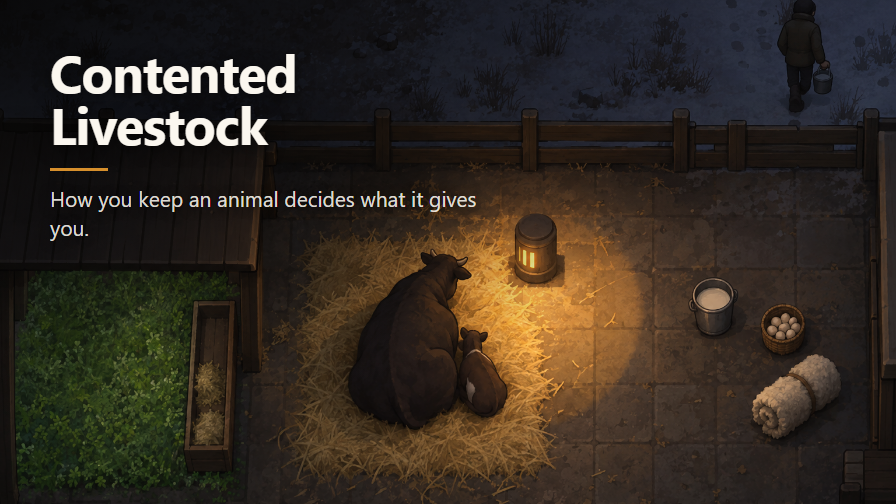
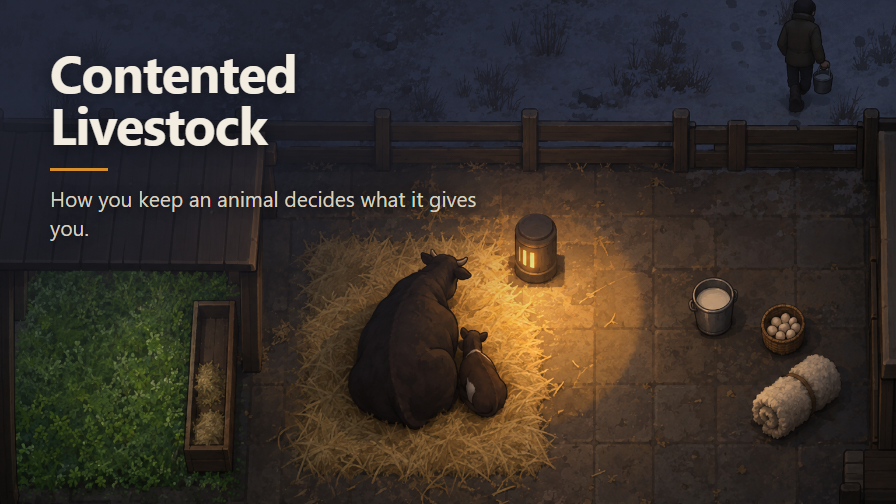
The veil takes the cold from the picture, and the card speaks English
Re-engraved to the 2026-09-12 rule: the veil is no longer the same black on every showcase in the
repository, it is a colour taken from this one. #242838, sampled off the frozen ground beyond the
fence and averaged over two patches. The guide asks for a notch of desaturation after sampling and
it is a no-op here - the sample is already the least saturated thing in the frame - but it is the
right one to take: the veil colour becomes the colour of that third of the picture, and what
belongs over the text is the cold the shelter keeps out, not the warmth of the heater pool, which
is one of the two things allowed to be vivid and would have spent that budget on a flat.

Relative luminance 0.022, under the 0.18 threshold, so the ink is the light one and the drop
shadows stay. The rule keeps its amber, which the guide only gives up on an amber or orange veil.
The ellipse footprint stays as well, for the reason it was adopted: the guide's circle also
swallows the green pasture.

Measured on the rendered PNG rather than on the stylesheet, as the guide requires - the veil is
translucent, so the colour under a glyph is never the one in the CSS. The page is rendered a
second time with the text hidden and the four corners of the text block are sampled: 12.6, 13.4,
11.0 and 7.8 to one. The worst sits behind the end of the summary, where the lean-to roof lifts
the ground out from under it, and it still clears the 4.5:1 floor by a wide margin.
[…]

Changed region(s): [[0.0, 0.0, 0.4688, 0.4167]]

diff --git a/_tools/preview.html b/_tools/preview.html
@@ -37,17 +37,34 @@
   /*
     Darkens the upper-left third so the text reads, and leaves the lit cow alone.
 
-    STYLE_RIMWORLD.md specifies a circle falling to nothing at 74%, which on this
-    picture also swallows the green pasture in the lower left - one of the two
-    things allowed to be vivid here, and the one that says what the animal is
-    being fed. The veil is flattened into an ellipse instead, wide enough to
-    cover the whole text block and short enough to release the pasture. Same
-    colour, same intent, different footprint.
+    The colour is #242838, sampled off the frozen ground beyond the fence in
+    Art/Preview-source.png - averaged over two patches that came back #212532 and
+    #272a38. The style guide asks for one notch of desaturation after sampling,
+    which is a no-op here: at S 0.22 the sample is already the least saturated
+    thing in the picture. It is also the right one to take. The veil colour
+    becomes the colour of this third of the showcase, and what belongs there is
+    the cold the shelter is keeping out, not the warmth of the heater pool -
+    which is one of the two things allowed to be vivid and would have spent that
+    budget on a flat.
+
+    Its relative luminance is 0.022, well under the 0.18 the guide sets, so the
+    ink is the light one and the drop shadows stay: they lift the glyphs off the
+    ground that shows through. The rule keeps its amber, which the guide only
+    gives up when the veil is itself amber or orange.
+
+    Footprint: the guide's dark form is a circle falling to nothing at 74%, which
+    on this picture also swallows the green pasture in the lower left - the other
+    of the two vivid things, and the one that says what the animal is being fed.
+    Flattened into an ellipse instead, wide enough to cover the whole text block
+    and short enough to release the pasture. The acceptance test is the same
+    either way, and it is measured on the rendered PNG: 4.5:1 at the worst of the
+    four corners of the text block. The worst of the four here is 7.8:1, behind the end of the summary
+    where the lean-to roof lifts the ground out from under it.
   */
   .veil {
     position: absolute; inset: 0;
     background: radial-gradient(ellipse 900px 430px at top left,
-                rgba(6, 5, 4, .88) 0%, rgba(6, 5, 4, 0) 100%);
+                rgba(36, 40, 56, .88) 0%, rgba(36, 40, 56, 0) 100%);
   }
 
   .plate {
@@ -57,7 +74,7 @@
 
   .name {
     margin: 0; font-size: 52px; font-weight: 700; line-height: 1;
-    color: #FBF7EF; letter-spacing: -1px;
+    color: #F2ECE1; letter-spacing: -1px;
     text-shadow: 0 2px 18px rgba(0, 0, 0, .55);
   }
 
@@ -68,7 +85,7 @@
   .line {
     margin: 13px 0 0; width: 430px;
     font-size: 21px; line-height: 29px; font-weight: 400;
-    color: rgba(251, 247, 239, .88);
+    color: #D8CFC0;
     text-shadow: 0 1px 12px rgba(0, 0, 0, .6);
   }
 </style>

diff --git a/STATUS.md b/STATUS.md
@@ -1,58 +1,67 @@
 ---
 mod:        Contented Livestock
 packageId:  nelim.contentedlivestock
-depot:      Rimworld-Contented-Livestock
-visibilite: public
-detache:    oui
-etape:      done
+repo:       Rimworld-Contented-Livestock
+visibility: public
+detached:   yes
+stage:      done
 licence:    original
-licence_ou: création originale, MIT sans réserve. Rien n'est repris d'un autre mod, ni code, ni def, ni texture, ni son ; le `LICENSE` est un MIT nu, sans section de périmètre, donc les images de la vitrine y entrent aussi. La mécanique est celle de Stardew Valley, créditée dans l'ATTRIBUTION et reprise d'aucune de ses lignes.
-vitrine:    complete
-teste_le:
-workshop:   
-reste:
-  - non_verifie: jamais vu tourner en jeu. Beaucoup réduit le 2026-09-11 par
-    `_tools/Run-Functional-Tests.ps1`, 16 tests hors jeu, qui ont trouvé et fait corriger un
-    `FieldAccessException` levé au premier tick de chaque animal — toute la moitié production
-    était inerte derrière un démarrage propre. Restent les 15 scénarios de
-    `_tools/FUNCTIONAL-SCENARIOS.md`, aucun joué, à commencer par le zéro : tant qu'il ne passe
-    pas, les quatorze autres ne prouvent rien.
-  - non_verifie: 5 des 16 tests portent sur `Assembly-CSharp` lui-même et n'ont pas pu être vus
-    rouges ; les 11 autres l'ont été, une mutation à la fois. Le fichier dit lesquels.
-  - feature: la vitrine est gravée en noir, d'avant la consigne du 2026-09-12 sur le voile en
-    couleur. Source pleine résolution sous `Art/`, page de gravure dans `_tools/preview.html` :
-    la reprise est une couleur à prélever et une encre à recalculer.
+licence_at: an original creation, MIT with no reservation. Nothing is reused from another mod - no code, no def, no texture, no sound - and the `LICENSE` is a bare MIT with no scope section, so the showcase images fall under it too. The mechanic is Stardew Valley's, credited in ATTRIBUTION.md and reused from none of its lines.
+showcase:   complete
+tested_on:
+workshop:
+remaining:
+  - unverified: never seen running in game. Cut down a great deal on 2026-09-11 by
+    `_tools/Run-Functional-Tests.ps1`, 16 out-of-game tests, which found and had fixed a
+    `FieldAccessException` thrown on every animal's first tick — the whole production half
+    was inert behind a clean startup. What remains is the 15 scenarios of
+    `_tools/FUNCTIONAL-SCENARIOS.md`, none played, starting with the zeroth: until it passes,
+    the other fourteen prove nothing.
+  - unverified: 5 of the 16 tests are about `Assembly-CSharp` itself and could not be seen to
+    fail; the other 11 were, one mutation at a time. The file says which.
 session:    local_d801c303-9176-464c-a49a-66893a87ae7b
-maj:        2026-09-12, session du mod
+updated:    2026-09-12, held by the mod's own session
 ---
 
-# Contented Livestock — etat
+# Contented Livestock — status
 
-Fiche d'etat, lue par une passe sur tous les mods plutot qu'en interrogeant les fils un a un.
-Elle vit a la racine, jamais dans `Mod/`, donc Steam ne la recoit pas.
+Read by a sweep across every mod, rather than by asking each thread in turn. It lives at the
+root, never inside `Mod/`, so Steam never receives it.
 
-Les champs ci-dessus ont ete deduits du disque le 2026-09-12, puis repris par la session qui tient
-ce mod. Les trois que le releve automatique ne pouvait pas remplir :
+The fields above were read off the disk on 2026-09-12, then taken over by the session that holds
+this mod. The three a sweep cannot read:
 
-- **`etape`** — `done`. Le mod est complet, detache, sa vitrine est faite et ses tests sont ecrits.
-  Ce qui manque est un essai en jeu, que `teste_le` et `reste` disent, et qui n'est pas une etape
-  de fabrication.
-- **`teste_le`** — vide. Jamais lance, conformement a la consigne : la session prepare, elle joue.
-- **`reste`** — trois lignes, toutes vraies au 2026-09-12.
+- **`stage`** — `done`. The mod is complete, detached, its showcase is made and its tests are
+  written. What is missing is a run in a game, which `tested_on` and `remaining` say, and which is
+  not a build stage.
+- **`tested_on`** — empty. Never launched, by standing instruction: the session prepares, she
+  plays.
+- **`remaining`** — two lines, both true on 2026-09-12. A third one said the showcase was engraved
+  in black, from before that day's rule on the coloured veil; it was re-engraved the same day and
+  the line is gone. The veil is `#242838`, the frozen ground beyond the fence, and the worst
+  contrast behind the text measures 7.8:1 against a 4.5:1 floor.
 
-Vocabulaire de `licence` : `open` licence explicite, `silent` aucune licence et source morte,
-`alive` aucune licence mais source vivante, `forbidden` refus ecrit, `original` rien de repris.
+`licence` vocabulary: `open` an explicit licence, `silent` no licence and a dead source,
+`alive` no licence but a living source, `forbidden` a written refusal, `original` nothing reused.
 
-## Ce que ce mod a appris au depot, et qui depasse ce mod
+## What this mod taught the repository, and it outlives the mod
 
-Deux choses, gardees ici parce qu'elles servent au prochain qui passe :
+Two things, kept here because they serve whoever comes next:
 
-- **Un mod compile contre `Krafs.Rimworld.Ref` peut etre entierement mort sans qu'aucun journal ne
-  le dise.** Les champs non publics du jeu arrivent publics dans l'assemblage de reference, donc
-  le code compile ; l'acces n'est legal a l'execution qu'avec
-  `IgnoresAccessChecksTo("Assembly-CSharp")`, que `Krafs.Publicizer` pose via l'AssemblyInfo
-  genere — supprime ici par `GenerateAssemblyInfo=false`. A verifier sur tout mod du depot qui
-  coupe cette propriete et ecrit un champ non public. Correctif dans `Source/AccessChecks.cs`.
-- **Le test qui l'attrape ne lit pas les metadonnees, il tente l'acces.** Les deux comps
-  s'instancient hors du jeu et le `Prefix` du mod est appele dessus pour de vrai. Un verdict rendu
-  par le CLR vaut mieux qu'un verdict lu dans un attribut.
+- **A mod built against `Krafs.Rimworld.Ref` can be entirely dead with nothing in any log to say
+  so.** The game's non-public fields arrive public in the reference assembly, so the code
+  compiles; the access is only legal at runtime under
+  `IgnoresAccessChecksTo("Assembly-CSharp")`, which `Krafs.Publicizer` applies through the
+  generated AssemblyInfo — switched off here by `GenerateAssemblyInfo=false`. Worth checking on
+  any mod in the repository that turns that property off and writes a non-public field. The fix is
+  `Source/AccessChecks.cs`.
+- **The test that catches it does not read metadata, it performs the access.** Both comps
+  construct outside the game, and the mod's own `Prefix` is called on one for real. A verdict
+  raised by the CLR beats a verdict read off an attribute.
+
+## A note for the next sweep
+
+This file has been rewritten twice by automated passes, and the second one translated the fields
+but dropped the closing `---` of the front matter along with `session` and `updated`. An
+unterminated front matter is not a parse error anywhere, it just quietly turns the whole card into
+prose. Worth a check after any bulk edit: three keys, one fence, `grep -c '^---$'` should return 2.
